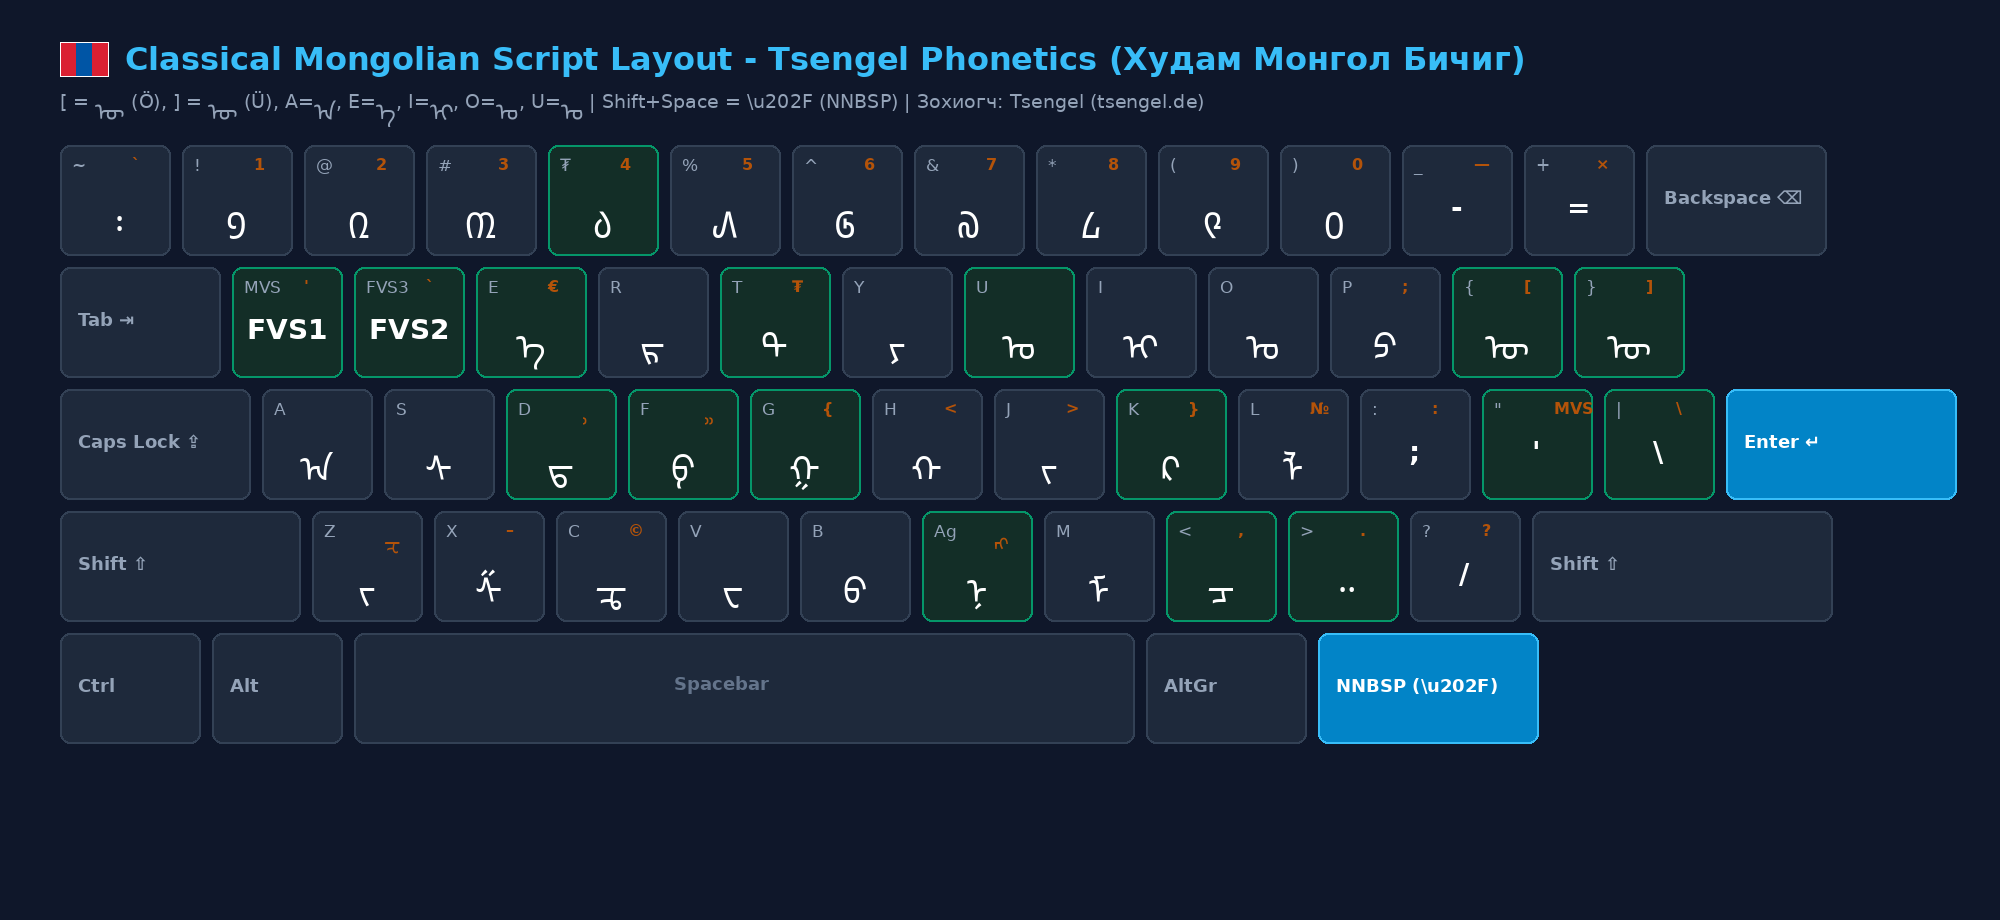
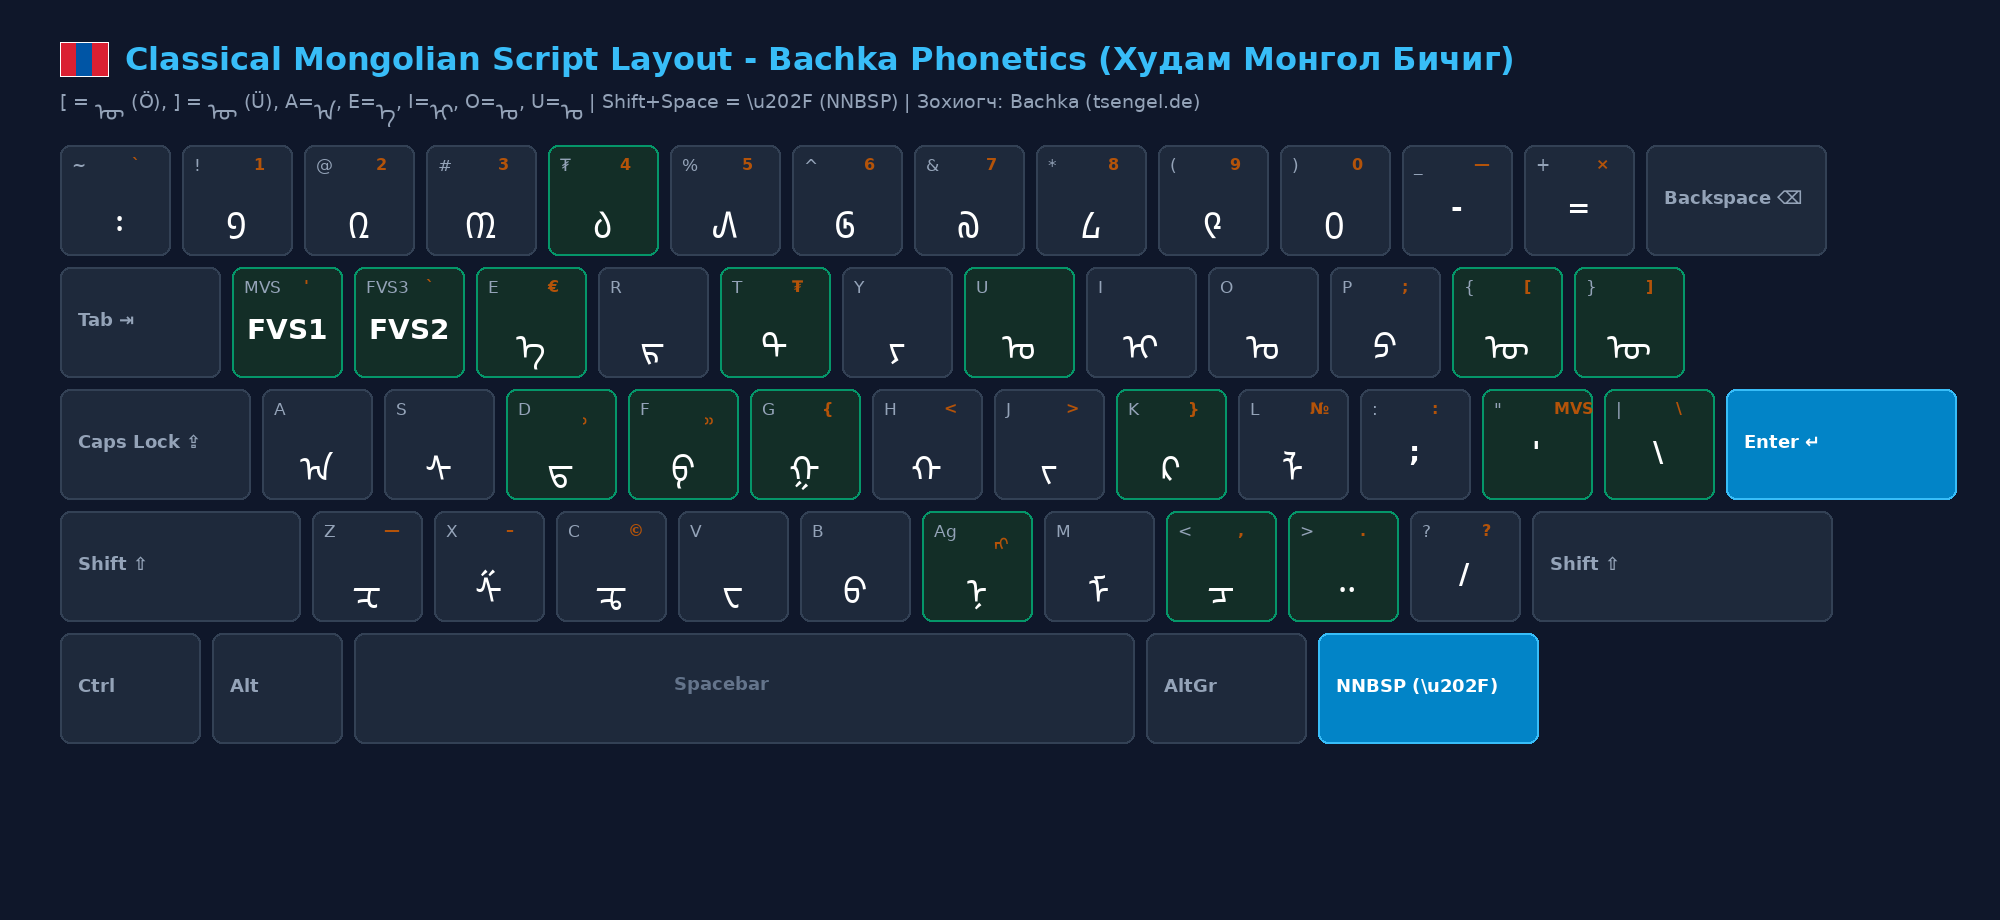
Revert "feat(web): implement KISS solution with crisp layout diagram tabs and clean test workspace"
This reverts commit 3dc9bf8b330dda08aa45dd485e2a655584ba78c0.

Changed region(s): [[0.372, 0.0304, 0.775, 0.1217]]

diff --git a/web/index.html b/web/index.html
@@ -41,6 +41,52 @@ am<!DOCTYPE html>
     .btn.active { background: var(--primary); color: #fff; }
     .btn.active-devops { background: var(--accent-devops); color: #fff; }
 
+    .keyboard-container {
+      background: var(--card-bg);
+      border-radius: 12px;
+      padding: 20px;
+      box-shadow: 0 4px 6px -1px rgba(0,0,0,0.1);
+      margin-bottom: 24px;
+      user-select: none;
+      overflow-x: auto;
+    }
+    .kb-row { display: flex; justify-content: center; gap: 6px; margin-bottom: 6px; }
+    .key {
+      width: 48px;
+      min-width: 48px;
+      height: 54px;
+      flex: 0 0 48px;
+      box-sizing: border-box;
+      background: var(--key-bg);
+      border: 1px solid var(--key-border);
+      border-radius: 6px;
+      display: flex;
+      flex-direction: column;
+      align-items: center;
+      justify-content: space-between;
+      padding: 3px 4px;
+      cursor: pointer;
+      position: relative;
+      transition: background 0.12s, transform 0.05s, border-color 0.12s;
+    }
+    .key:hover { background: #e2e8f0; border-color: #94a3b8; }
+    .key:active, .key.key-pressed { transform: translateY(2px); background: #bfdbfe !important; border-color: #2563eb !important; box-shadow: 0 0 8px rgba(37,99,235,0.4); }
+    .key.active-mod { background: #dbeafe; border-color: var(--accent-shift); color: var(--accent-shift); }
+    .key.devops-key { border-color: #a7f3d0; background: #f0fdf4; }
+    .key .top { font-size: 11px; color: #0284c7; align-self: flex-start; font-weight: 500; }
+    .key .main { font-size: 18px; font-weight: 600; color: #0f172a; }
+    .key .alt { font-size: 11px; color: #d97706; align-self: flex-end; font-weight: 600; }
+    .key .latin { font-size: 9px; color: #94a3b8; position: absolute; bottom: 2px; left: 4px; font-weight: 600; font-family: monospace; }
+
+    .key-tab { width: 72px; min-width: 72px; max-width: 72px; flex: 0 0 72px; }
+    .key-bsp { width: 90px; min-width: 90px; max-width: 90px; flex: 0 0 90px; }
+    .key-caps { width: 84px; min-width: 84px; max-width: 84px; flex: 0 0 84px; }
+    .key-enter { width: 96px; min-width: 96px; max-width: 96px; flex: 0 0 96px; }
+    .key-shift-l { width: 108px; min-width: 108px; max-width: 108px; flex: 0 0 108px; }
+    .key-shift-r { width: 120px; min-width: 120px; max-width: 120px; flex: 0 0 120px; }
+    .key-mod { width: 68px; min-width: 68px; max-width: 68px; flex: 0 0 68px; }
+    .key-space { width: 280px; min-width: 240px; max-width: 320px; flex: 0 0 280px; }
+    .key-wide { flex: 0 0 auto; }
 
     .editor-section {
       background: var(--card-bg);
@@ -449,26 +495,27 @@ am<!DOCTYPE html>
     <p id="i18n-community-banner">🌿 <strong>Арилжааны бус • Нийтийн хүртээл.</strong> Нийтийн тусын тулд сайн дураар бүтээв. <strong>Хүн бүхэнд нээлттэй</strong> — хэн ч үүнээс мөнгө олдоггүй, хэнээс ч төлбөр шаарддаггүй.</p>
   </div>
 
-  <div class="controls-wrapper" style="margin-bottom: 16px;">
+  <div class="controls-wrapper">
     <div class="controls-row">
-      <span class="control-label" id="i18n-lbl-diagram">Гарын үе сонгох:</span>
+      <span class="control-label" id="i18n-lbl-edition">Загвар:</span>
       <div class="btn-group">
-        <button class="btn active" id="btn-diag-normal" onclick="showDiagram('normal')">1. Үндсэн үе (Normal)</button>
-        <button class="btn" id="btn-diag-shift" onclick="showDiagram('shift')">2. Shift үе (Том үсэг)</button>
-        <button class="btn" id="btn-diag-altgr" onclick="showDiagram('altgr')">3. AltGr / Option (Тэмдэгт)</button>
-        <button class="btn" id="btn-diag-bichig" onclick="showDiagram('bichig')">4. 📜 Монгол бичиг (Bichig)</button>
+        <button class="btn active" id="btn-mode-cyrillic" onclick="setLayoutMode('cyrillic')">🇲🇳 Монгол Кирилл (Tsengel mn-custom)</button>
+        <button class="btn" id="btn-mode-bichig" onclick="setLayoutMode('bichig')">📜 Худам Монгол Бичиг (Tsengel Phonetics)</button>
       </div>
+    </div>
+    <div class="controls-row">
+      <span class="control-label" id="i18n-lbl-layer">Үе давхарга:</span>
+      <div class="btn-group">
+        <button class="btn active" id="btn-layer-normal" onclick="setLayer('normal')">Үндсэн (Normal / 1-р үе)</button>
+        <button class="btn" id="btn-layer-shift" onclick="setLayer('shift')">Shift (Том үсэг / 2-р үе)</button>
+        <button class="btn" id="btn-layer-altgr" onclick="setLayer('altgr')">AltGr / Option (Хаалт &amp; Тэмдэгт / 3-р үе)</button>
+      </div>
+      <span style="font-size:12px; color:#64748b; margin-left:12px;" id="i18n-hint-physical">💡 Физик гараасаа Shift эсвэл AltGr дарж шууд үзэж болно</span>
     </div>
   </div>
 
-  <div class="diagram-section" style="margin-bottom: 24px; text-align: center;">
-    <div style="display: flex; justify-content: space-between; align-items: center; margin-bottom: 8px;">
-      <span style="font-size: 13px; font-weight: 600; color: #475569;" id="diag-caption">Үндсэн үе: Бүх 35 үсэг 1-р үе дээр шууд</span>
-      <a id="diagram-dl-link" href="images/layout-cyrillic-normal.png" target="_blank" download style="font-size: 12px; color: #0284c7; text-decoration: none; font-weight: 500;">Татах (Download HD) ↗</a>
-    </div>
-    <a id="diagram-view-link" href="images/layout-cyrillic-normal.png" target="_blank" title="Томоор харах">
-      <img id="layer-diagram-img" src="images/layout-cyrillic-normal.png" alt="Keyboard Layer Diagram" style="width: 100%; max-width: 1000px; height: auto; border-radius: 8px; border: 1px solid var(--key-border); box-shadow: 0 4px 6px -1px rgba(0,0,0,0.1); display: block; margin: 0 auto;">
-    </a>
+  <div class="keyboard-container" id="keyboard">
+    <!-- Keys rendered dynamically -->
   </div>
 
   <div class="editor-section">
@@ -928,83 +975,6 @@ function renderKeyboard() {
   container.appendChild(spaceRow);
 }
 
-const DIAGRAMS = {
-  normal: {
-    src: 'images/layout-cyrillic-normal.png',
-    mn: 'Үндсэн үе: Бүх 35 үсэг 1-р үе дээр шууд (Q=ъ, W=ь, E=э, Y=е, [=ө, ]=ү, ;=щ, \'\\=ы й)',
-    en: 'Base Layer: All 35 Cyrillic letters direct on Layer 1',
-    de: 'Basisebene: Alle 35 kyrillischen Buchstaben direkt erreichbar'
-  },
-  shift: {
-    src: 'images/layout-cyrillic-shift.png',
-    mn: 'Shift үе: Том үсгүүд (Ъ, Ь, Э, Е, Ө, Ү, Щ, Ы, Й, Ё болон тэмдэгтүүд)',
-    en: 'Shift Layer: Capital letters & special characters',
-    de: 'Shift-Ebene: Großbuchstaben und Sonderzeichen'
-  },
-  altgr: {
-    src: 'images/layout-cyrillic-altgr.png',
-    mn: 'AltGr / Option үе: Програмист хаалтууд [ ] { } \\ | болон ₮ € « » —',
-    en: 'AltGr / Option Layer: Developer brackets [ ] { } \\ | and symbols ₮ € « »',
-    de: 'AltGr / Option-Ebene: Programmierer-Klammern [ ] { } \\ | und Symbole ₮ €'
-  },
-  bichig: {
-    src: 'images/layout-bichig.png',
-    mn: 'Худам Монгол бичиг: Фонетик байрлал ([=ᠥ, ]=ᠦ, A=ᠠ, E=ᠡ, Z=ᠵ, Shift+Space=NNBSP)',
-    en: 'Classical Mongolian Script: Phonetic layout ([=ᠥ, ]=ᠦ, A=ᠠ, E=ᠡ, Z=ᠵ)',
-    de: 'Traditionelle mongolische Schrift: Phonetisches Layout'
-  }
-};
-
-let currentDiag = 'normal';
-
-function showDiagram(layer) {
-  currentDiag = layer;
-  ['normal', 'shift', 'altgr', 'bichig'].forEach(l => {
-    document.getElementById('btn-diag-' + l)?.classList.toggle('active', l === layer);
-  });
-  const d = DIAGRAMS[layer];
-  if (!d) return;
-  const img = document.getElementById('layer-diagram-img');
-  const caption = document.getElementById('diag-caption');
-  const dlLink = document.getElementById('diagram-dl-link');
-  const viewLink = document.getElementById('diagram-view-link');
-  if (img) img.src = d.src;
-  if (dlLink) dlLink.href = d.src;
-  if (viewLink) viewLink.href = d.src;
-  if (caption) caption.innerText = d[currentLang] || d.mn;
-
-  const box = document.getElementById('typing-box');
-  if (box) {
-    if (layer === 'bichig') {
-      box.classList.add('bichig-mode');
-      box.placeholder = 'Худам Монгол бичгийн гараар энд туршиж бичнэ үү...';
-    } else {
-      box.classList.remove('bichig-mode');
-      box.placeholder = (I18N[currentLang] && I18N[currentLang].typingPlaceholder) || 'Энд бичиж туршина уу...';
-    }
-  }
-}
-
-function updateDiagramImage() {
-  const img = document.getElementById('layer-diagram-img');
-  const dlLink = document.getElementById('diagram-dl-link');
-  const viewLink = document.getElementById('diagram-view-link');
-  if (!img) return;
-
-  let src = 'images/layout-cyrillic-normal.png';
-  if (currentMode === 'bichig') {
-    src = 'images/layout-bichig.png';
-  } else if (isShift) {
-    src = 'images/layout-cyrillic-shift.png';
-  } else if (isAltGr) {
-    src = 'images/layout-cyrillic-altgr.png';
-  }
-
-  img.src = src;
-  if (dlLink) dlLink.href = src;
-  if (viewLink) viewLink.href = src;
-}
-
 function setLayer(layer) {
   if (layer === 'shift') {
     isShift = true;
@@ -1018,7 +988,6 @@ function setLayer(layer) {
   }
   updateLayerButtons();
   renderKeyboard();
-  updateDiagramImage();
 }
 
 function updateLayerButtons() {
@@ -1033,12 +1002,10 @@ window.addEventListener('keydown', (e) => {
     isShift = true;
     updateLayerButtons();
     renderKeyboard();
-    updateDiagramImage();
   } else if (e.key === 'AltGraph' || (e.altKey && !e.ctrlKey)) {
     isAltGr = true;
     updateLayerButtons();
     renderKeyboard();
-    updateDiagramImage();
   }
   const keyEl = document.querySelector(`.key[data-code="${e.code}"]`);
   if (keyEl) keyEl.classList.add('key-pressed');
@@ -1049,12 +1016,10 @@ window.addEventListener('keyup', (e) => {
     isShift = false;
     updateLayerButtons();
     renderKeyboard();
-    updateDiagramImage();
   } else if (e.key === 'AltGraph' || !e.altKey) {
     isAltGr = false;
     updateLayerButtons();
     renderKeyboard();
-    updateDiagramImage();
   }
   const keyEl = document.querySelector(`.key[data-code="${e.code}"]`);
   if (keyEl) keyEl.classList.remove('key-pressed');
@@ -1081,7 +1046,6 @@ function setLayoutMode(m) {
 
   box.value = '';
   renderKeyboard();
-  updateDiagramImage();
 }
 
 function insertChar(ch) {

diff --git a/scripts/generate_diagrams.py b/scripts/generate_diagrams.py
@@ -65,7 +65,7 @@ BICHIG_ROW3 = [
 ]
 
 BICHIG_ROW4 = [
-    ('Z', 'ᠵ', 'ᠽ', False), ('X', 'ᠱ', '–', False), ('C', 'ᠼ', '©', False), ('V', 'ᠸ', '', False),
+    ('Z', 'ᠽ', '—', False), ('X', 'ᠱ', '–', False), ('C', 'ᠼ', '©', False), ('V', 'ᠸ', '', False),
     ('B', 'ᠪ', '', False), ('Ag', 'ᠨ', 'ᠩ', True), ('M', 'ᠮ', '', False), ('<', 'ᠴ', ',', True),
     ('>', '᠃', '.', True), ('?', '/', '?', False)
 ]
@@ -255,28 +255,28 @@ def draw_special_key(draw, x, y, w, h, label, font, is_accent=False, is_shift=Fa
     draw.text((x + 18, y + 42), label, fill=text_color, font=font)
 
 if __name__ == '__main__':
-    # 1. Tsengel Cyrillic - Base (Normal) Layer
+    # 1. Bachka Cyrillic - Base (Normal) Layer
     render_layout(
         "Mongolian Cyrillic Keyboard Layout - Base Layer (Үндсэн үе)",
-        "Бүх 35 үсэг 1-р үе дээр шууд: Q=ъ, W=ь, E=э, Y=е, [=ө, ]=ү, ;=щ, '=ы, \\=й | Зохиогч: Tsengel (tsengel.de)",
+        "Бүх 35 үсэг 1-р үе дээр шууд: Q=ъ, W=ь, E=э, Y=е, [=ө, ]=ү, ;=щ, '=ы, \\=й | Зохиогч: Bachka (tsengel.de)",
         BACHKA_ROW1, BACHKA_ROW2, BACHKA_ROW3, BACHKA_ROW4,
         mode='normal',
         out_filename="layout-cyrillic-normal.png"
     )
 
-    # 2. Tsengel Cyrillic - Shift Layer
+    # 2. Bachka Cyrillic - Shift Layer
     render_layout(
         "Mongolian Cyrillic Keyboard Layout - Shift Layer (Shift дарсан үе)",
-        "Том үсгүүд: Ъ, Ь, Э, Е, Ө, Ү, Щ, Ы, Й, Ё болон тусгай тэмдэгтүүд | Зохиогч: Tsengel (tsengel.de)",
+        "Том үсгүүд: Ъ, Ь, Э, Е, Ө, Ү, Щ, Ы, Й, Ё болон тусгай тэмдэгтүүд | Зохиогч: Bachka (tsengel.de)",
         BACHKA_ROW1, BACHKA_ROW2, BACHKA_ROW3, BACHKA_ROW4,
         mode='shift',
         out_filename="layout-cyrillic-shift.png"
     )
 
-    # 3. Tsengel Cyrillic - AltGr / Option Layer
+    # 3. Bachka Cyrillic - AltGr / Option Layer
     render_layout(
         "Mongolian Cyrillic Keyboard Layout - AltGr / Option Layer (Програмист & Тэмдэгт үе)",
-        "AltGr: [ ] { } \\ | ; : ` ' \" ₮ € « » — – … | Зохиогч: Tsengel (tsengel.de)",
+        "AltGr: [ ] { } \\ | ; : ` ' \" ₮ € « » — – … | Зохиогч: Bachka (tsengel.de)",
         BACHKA_ROW1, BACHKA_ROW2, BACHKA_ROW3, BACHKA_ROW4,
         mode='altgr',
         out_filename="layout-cyrillic-altgr.png"
@@ -284,8 +284,8 @@ if __name__ == '__main__':
 
     # 4. Classical Mongol Bichig
     render_layout(
-        "Classical Mongolian Script Layout - Tsengel Phonetics (Худам Монгол Бичиг)",
-        "[ = ᠥ (Ö), ] = ᠦ (Ü), A=ᠠ, E=ᠡ, I=ᠢ, O=ᠣ, U=ᠤ | Shift+Space = \\u202F (NNBSP) | Зохиогч: Tsengel (tsengel.de)",
+        "Classical Mongolian Script Layout - Bachka Phonetics (Худам Монгол Бичиг)",
+        "[ = ᠥ (Ö), ] = ᠦ (Ü), A=ᠠ, E=ᠡ, I=ᠢ, O=ᠣ, U=ᠤ | Shift+Space = \\u202F (NNBSP) | Зохиогч: Bachka (tsengel.de)",
         BICHIG_ROW1, BICHIG_ROW2, BICHIG_ROW3, BICHIG_ROW4,
         mode='normal',
         out_filename="layout-bichig.png"
